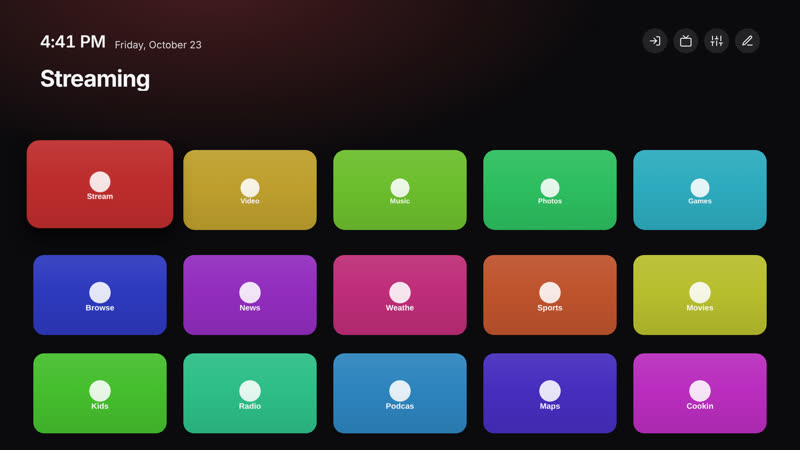
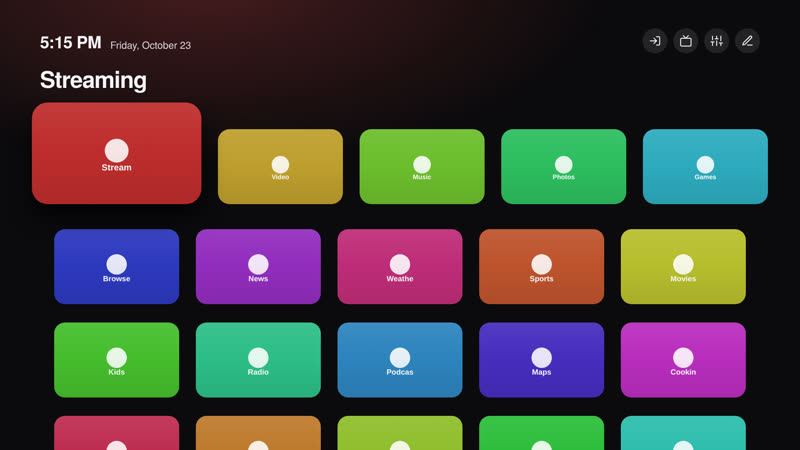
Theme picker in Customise, grow-to-fill top row, directional focus, Helvetica-style font
- Customise > Theme on the home screen lists the themes (as in the manager app) and applies one at once
- dock.fill: the focused dock tile grows from its bottom edge up to just under the app name; its neighbours move aside
- effects.direction: the new tile slides in from the side the focus came from, the old one leans after it
- type.font "helvetica": Sleek Sans, a renamed Latin subset of TeX Gyre Heros (GUST Font License), bundled with the launcher
- Sleek and Sleek Dark use all three; launcher 1.4.16, service 1.5.17

Claude-Session: https://claude.ai/code/session_019wHBhg4XGb2WRjxsczuXuk

diff --git a/app/index.html b/app/index.html
@@ -2,6 +2,8 @@
 <html><head><meta charset="utf-8"><title>Home</title>
 <meta name="viewport" content="width=1920">
 <style>
+@font-face{font-family:'Sleek Sans';src:url(sleek-sans-regular.woff2) format('woff2');font-weight:100 550}
+@font-face{font-family:'Sleek Sans';src:url(sleek-sans-bold.woff2) format('woff2');font-weight:551 900}
 /* Built for a weak TV GPU: only transform and opacity ever animate; no blur, masks or filters. Everything a theme changes (manager > Theme) is a
    variable here; the service works the values out (helper/theme.js) and the defaults below are the original look. */
 :root{
@@ -14,7 +16,7 @@
   --view-top:300px; --dock-l:96px; --dock-r:auto; --dock-t:60px; --dock-b:auto; --dock-tx:none; --dock-w:408px; --dock-h:230px; --dock-gap:32px; --dock-rad:36px;
   --dock-panel:0; --dock-pad:0px; --dock-lift:-10px; --dock-fs:1.05;
   --cols:10; --tile-w:151px; --tile-h:151px; --gap-x:24px; --gap-y:26px; --tile-r:34px; --grid-l:96px; --grid-w:1728px; --grid-t:350px; --grid-fs:1.12; --ov-dim:.95;
-  --gloss:0; --tile-border:0; --ring-w:4px; --ring-off:4px; --shadow:.6; --ink-rgb:245,246,248;
+  --gloss:0; --tile-border:0; --ring-w:4px; --ring-off:4px; --shadow:.6; --ink-rgb:245,246,248; --dock-origin:50% 50%; --dock-spread:0px;
 }
 *{box-sizing:border-box;margin:0}
 html,body{width:1920px;height:1080px;overflow:hidden;background:var(--night);color:var(--ink);font-family:var(--font)}
@@ -42,7 +44,7 @@ body{background-image:var(--wall);background-size:1920px 1080px}
 [data-labels=hide] .pill span{display:none}
 
 #shelf{position:absolute;left:0;right:0;top:var(--name-y);height:120px;padding:0 var(--name-x);text-align:var(--name-a);display:var(--name-d);z-index:5}
-#name{font-size:calc(92px*var(--fs)*var(--name-s));font-weight:700;letter-spacing:-.028em;line-height:1.05;white-space:nowrap;overflow:hidden;text-overflow:ellipsis}
+#name{font-size:calc(92px*var(--fs)*var(--name-s));font-weight:700;letter-spacing:-.028em;line-height:1.05;padding-bottom:.14em;white-space:nowrap;overflow:hidden;text-overflow:ellipsis}
 
 /* the view clips rows as they scroll up under the shelf */
 #view{position:absolute;left:0;top:var(--view-top);width:1920px;height:calc(1080px - var(--view-top));overflow:hidden;z-index:2}
@@ -64,7 +66,7 @@ body{background-image:var(--wall);background-size:1920px 1080px}
 .tile::after{content:'';position:absolute;left:0;top:0;right:0;bottom:0;border-radius:inherit;pointer-events:none;opacity:var(--gloss);
   background:linear-gradient(180deg,rgba(255,255,255,.2),rgba(255,255,255,0) 46%,rgba(0,0,0,.24))}
 
-.tile{--c:74,84,112;--b:20,22,27;position:relative;display:flex;align-items:center;justify-content:center;will-change:transform;
+.tile{--c:74,84,112;--b:20,22,27;position:relative;display:flex;align-items:center;justify-content:center;will-change:transform;transform:translate(calc(var(--sx,0px) + var(--mx,0px)),var(--my,0px));
   background:rgb(var(--b));box-shadow:inset 0 0 0 1px rgba(255,255,255,var(--tile-border));transition:transform calc(.12s*var(--spd)) cubic-bezier(.3,1.35,.5,1)}
 .snap .tile,.snap .pill{transition:none}   /* held arrow key: follow the focus without animating each step */
 .tile.fill{overflow:hidden}
@@ -78,11 +80,17 @@ body{background-image:var(--wall);background-size:1920px 1080px}
 #dock .tile{width:var(--dock-w);height:var(--dock-h);border-radius:var(--dock-rad)}
 #dock .tile img{height:56%;max-width:46%}
 #dock .tile svg{width:96px;height:96px}
-#dock .tile.f{transform:translateY(var(--dock-lift)) scale(var(--dock-fs))}
+#dock .tile.f{transform:translate(calc(var(--sx,0px) + var(--mx,0px)),var(--my,0px)) translateY(var(--dock-lift)) scale(var(--dock-fs));transform-origin:var(--dock-origin)}
+/* dock.fill: the tiles beside the grown one move aside */
+#dock .tile.sl{--sx:calc(var(--dock-spread) * -1)}
+#dock .tile.sr{--sx:var(--dock-spread)}
+/* effects.direction: a slower, settling move so the slide from the previous tile reads; .jump places a tile without animating */
+[data-dir] .tile{transition-duration:calc(.22s*var(--spd));transition-timing-function:cubic-bezier(.22,.9,.32,1.08)}
+.tile.jump{transition:none!important}
 #grid .tile{height:var(--tile-h);border-radius:var(--tile-r)}
 #grid .tile img{width:64%;height:64%}
 #grid .tile svg{width:64px;height:64px}
-#grid .tile.f{transform:scale(var(--grid-fs))}
+#grid .tile.f{transform:translate(var(--mx,0px),var(--my,0px)) scale(var(--grid-fs))}
 #grid .tile.sys{flex-direction:column;gap:8px}
 .slab{font-size:22px;font-weight:600;color:var(--ink2)}
 #grid .tile.sys{background:rgba(var(--ink-rgb),.05);box-shadow:inset 0 0 0 1px rgba(var(--ink-rgb),.12)}
@@ -191,7 +199,7 @@ svg.st{width:26px;height:26px;fill:#ffcc4d;flex:none}.crow.f svg.st{fill:#c98a00
 <div id="lv"><div id="lv-stage"></div><div id="lv-spin" class="layer"></div><div id="lv-osd" class="layer"><img class="logo" id="lv-ologo" alt=""><div class="num" id="lv-onum"></div><div class="info"><div class="name" id="lv-oname"></div><div class="now" id="lv-onow"></div><div class="next" id="lv-onext"></div><div class="facts" id="lv-ofacts"></div><div class="pbar"><i id="lv-obar"></i></div></div></div><div id="lv-numin" class="layer"></div><div id="lv-guide" class="layer"><div id="lv-glow"></div><div id="lv-gtop"><div id="lv-gtitle"></div><div id="lv-gtabs"></div><input id="lv-search" type="text" autocomplete="off"><div id="lv-gclock"></div></div><div id="lv-rows"></div><div id="lv-detail"></div></div><div id="lv-filter" class="layer"></div><div id="lv-menu" class="layer"></div><div id="lv-msg" class="layer"></div><div id="lv-tune" class="layer"></div><div id="lv-toast" class="layer"></div><div id="lv-stats" class="layer"></div></div>
 <div id="toast"></div>
 <script>
-var API='http://127.0.0.1:8765', CACHE_KEY='cytv.cache.v4', VERSION='1.4.15';
+var API='http://127.0.0.1:8765', CACHE_KEY='cytv.cache.v4', VERSION='1.4.16';
 var DEFAULTS={
   dock:['netflix','youtube.leanback.v4','amazon','com.disney.disneyplus-prod'],
   topbar:[{label:'Inputs',icon:'inputs',action:'inputs'},{label:'Live TV',icon:'tv',action:'live'},{label:'Settings',icon:'settings',app:'com.palm.app.settings'}]
@@ -345,21 +353,25 @@ function glowNow(e){
 function glowSoon(e){clearTimeout(gT);gT=setTimeout(function(){glowNow(e)},110)}
 
 /* ---------- theme: the service resolves the chosen theme (manager > Theme) into CSS variables and a few numbers ---------- */
-var TH0={cols:10,tileH:151,gapY:26,gt:350,viewH:780,dockN:4,overlay:false,push:null,overlayH:510,glow:''},TH=TH0,themeKeys=[],themeAttrs=['data-bar','data-labels','data-clock','data-grid','data-galign'];
+var TH0={cols:10,tileH:151,gapY:26,gt:350,viewH:780,dockN:4,overlay:false,push:null,overlayH:510,glow:''},TH=TH0,themeKeys=[],themeAttrs=['data-bar','data-labels','data-clock','data-grid','data-galign','data-dir'];
 function applyTheme(t){
   var st=document.documentElement.style,b=document.body,k;
   for(k=0;k<themeKeys.length;k++)st.removeProperty(themeKeys[k]);themeKeys=[];
   for(k=0;k<themeAttrs.length;k++)b.removeAttribute(themeAttrs[k]);b.classList.remove('grid-open');
+  if(t&&t.name)themeName=t.name;
   if(!t||!t.vars){TH=TH0;return}
   for(k in t.vars){st.setProperty(k,t.vars[k]);themeKeys.push(k)}
   var w=t.wallpaper;
   if(w){var d='rgba('+t.nightRgb+','+w.dim+')';st.setProperty('--wall','linear-gradient('+d+','+d+'),url("'+API+'/api/theme/wallpaper/'+w.id+'/'+w.file+'")');themeKeys.push('--wall')}
   for(k in t.attrs)b.setAttribute('data-'+k,t.attrs[k]);
-  TH={cols:t.cols||10,tileH:t.tileH||151,gapY:t.gapY||26,gt:t.gt||350,viewH:t.viewH||780,dockN:t.dockN||4,overlay:!!t.overlay,push:t.push||null,overlayH:t.overlayH||510,glow:t.glowRgb||''}}
+  if(t.dir)b.setAttribute('data-dir','1');
+  TH={cols:t.cols||10,tileH:t.tileH||151,gapY:t.gapY||26,gt:t.gt||350,viewH:t.viewH||780,dockN:t.dockN||4,overlay:!!t.overlay,push:t.push||null,overlayH:t.overlayH||510,glow:t.glowRgb||'',fill:!!t.fill,dir:t.dir||0}}
 
 function setFocus(nr,nc,first){
-  var old=rows[r]&&rows[r][c];if(old)old.classList.remove('f');
-  r=nr;c=Math.min(nc,rows[r].length-1);var e=rows[r][c];e.classList.add('f');
+  var old=rows[r]&&rows[r][c],or=r,oc=c;if(old)old.classList.remove('f');
+  r=nr;c=Math.min(nc,rows[r].length-1);var e=rows[r][c];
+  if(!first&&old&&old!==e&&TH.dir&&!document.body.classList.contains('snap'))motion(old,e,or===r?(c>oc?1:-1):0,or===r?0:(r>or?1:-1));else e.classList.add('f');
+  spread();
   var a=e._a,nm=a?a.title:(e._o?barLabel(e._o):''),n=$('name');
   if(n.textContent!==nm)n.textContent=nm;
   if(first)glowNow(e);else glowSoon(e);
@@ -375,6 +387,18 @@ function setFocus(nr,nc,first){
   $('grid').style.transform='';
   if(r>=2){var gr=rows.length-2,gt=TH.gt;sh=Math.min(0,Math.max(50-(gt+(r-2)*(TH.tileH+TH.gapY)),TH.viewH-54-(gt+gr*TH.tileH+(gr-1)*TH.gapY)))}   /* row height + gap from the theme: no layout reads */
   $('scroll').style.transform=sh?'translateY('+sh+'px)':''}
+/* dock.fill: the dock tiles left and right of the focused one move aside to make room */
+function spread(){var d=rows[1]||[];for(var i=0;i<d.length;i++){var x=d[i];if(!x.classList.contains('tile'))return;x.classList.toggle('sl',TH.fill&&r===1&&i<c);x.classList.toggle('sr',TH.fill&&r===1&&i>c)}}
+/* effects.direction: the new tile starts offset toward the tile the focus came from (placed without animating), then grows and slides into
+   place; the tile it left leans after it for a moment. Only transforms change. */
+function raf2(f){requestAnimationFrame(function(){requestAnimationFrame(f)})}
+function motion(old,e,dx,dy){
+  var d=TH.dir,isT=e.classList.contains('tile');
+  if(isT){e.classList.add('jump');e.style.setProperty('--mx',(-dx*d)+'px');e.style.setProperty('--my',(-dy*d)+'px');
+    raf2(function(){e.classList.remove('jump');e.style.removeProperty('--mx');e.style.removeProperty('--my');if(rows[r]&&rows[r][c]===e)e.classList.add('f')})}
+  else e.classList.add('f');
+  if(old.classList.contains('tile')){old.style.setProperty('--mx',(dx*d*.4)+'px');old.style.setProperty('--my',(dy*d*.4)+'px');
+    setTimeout(function(){old.style.removeProperty('--mx');old.style.removeProperty('--my')},110)}}
 function mapCol(from,to,col){return from>1?Math.round(col*(to-1)/(from-1)):0}
 function posOf(e){for(var i=0;i<rows.length;i++){var j=rows[i].indexOf(e);if(j>=0)return [i,j]}return null}
 
@@ -470,12 +494,28 @@ function barMenu(o){openMenu(barLabel(o),[{label:t('Remove this button'),fn:func
 
 function customizeMenu(){
   openMenu(t('Customise'),[
+    {label:t('Theme'),sub:themeName,stay:true,fn:themeMenu},
     {label:'Dock',sub:t('hold OK on an app'),stay:true,fn:function(){toast(t('Hold OK on any app to change the dock'))}},
     {label:t('Top buttons'),stay:true,fn:topButtonsMenu},
     {label:t('Hidden apps'),stay:true,fn:hiddenMenu},
     {label:t('App order'),sub:cfg.sort==='alpha'?t('A to Z'):t('Most used first'),fn:function(){cfg.sort=cfg.sort==='alpha'?'usage':'alpha';saveCfg()}},
     {label:t('Clock'),sub:cfg.clock==='24'?t('24-hour'):cfg.clock==='12'?t('12-hour'):t('Automatic'),fn:function(){cfg.clock=cfg.clock==='24'?'12':cfg.clock==='12'?'auto':'24';saveCfg();tick()}},
     {label:t('Reset customisation'),fn:function(){cfg={};saveCfg()}}])}
+/* themes, as in the manager app: the list comes from the service (GitHub plus what is on the TV); choosing one downloads it if needed */
+var themeName='';
+function themeMenu(){
+  toast(t('Loading themes...'));
+  api('/api/theme/list').then(function(x){
+    if(x.error){toast(x.error);return}
+    $('toast').classList.remove('on');
+    var cur=x.current&&x.current.id,items=(x.themes||[]).map(function(th){if(th.id===cur)themeName=th.name;
+      return {label:th.name,sub:th.id===cur?'\u2713':(th.installed?'':t('download')),fn:function(){setThemeHome(th)}}});
+    var m=stack[stack.length-1];if(!m||m.title!==t('Customise'))return;   /* the menu was closed while the list loaded */
+    openMenu(t('Theme'),items);var top=stack[stack.length-1];for(var i=0;i<items.length;i++)if(items[i].sub==='\u2713'){top.idx=i;drawMenu();break}
+  }).catch(function(){toast(t('The service did not answer'))})}
+function setThemeHome(th){
+  toast(th.installed?th.name:t('Downloading')+' '+th.name+'...');
+  api('/api/theme/set',{id:th.id}).then(function(x){if(x.error){toast(x.error);return}themeName=th.name;lastSig='';load()}).catch(function(){toast(t('The service did not answer'))})}
 function topButtonsMenu(){
   var items=shownBar().map(function(o){return {label:barLabel(o),sub:t('OK to remove'),fn:function(){removeButton(o)}}});
   items.push({label:t('Add a button...'),stay:true,fn:addButtonMenu});

diff --git a/helper/theme.js b/helper/theme.js
@@ -38,7 +38,7 @@ const SCHEMA = [
   ['surface.pillRadius', 'int', [0, 60], 32, 'Corner radius of the top buttons (pill style only).'],
   ['surface.menuAlpha', 'num', [0.5, 1], 0.97, 'Opacity of the dark layer behind menus.'],
   ['surface.rowRadius', 'int', [0, 50], 30, 'Corner radius of menu rows.'],
-  ['type.font', 'enum', ['default', 'serif', 'mono'], 'default', 'The typeface: the TV\'s own, a serif or a monospace.'],
+  ['type.font', 'enum', ['default', 'serif', 'mono', 'helvetica'], 'default', 'The typeface: the TV\'s own, a serif, a monospace or `helvetica` (Sleek Sans, a Helvetica-style font that comes with the launcher).'],
   ['type.scale', 'num', [0.8, 1.3], 1, 'Scale of the text of buttons, menus and tiles.'],
   ['clock.show', 'bool', null, true, 'Show the clock.'],
   ['clock.date', 'bool', null, true, 'Show the date beside or under the time.'],
@@ -76,6 +76,7 @@ const SCHEMA = [
   ['dock.panelPad', 'int', [0, 60], 24, 'Space between the panel and the tiles, in px.'],
   ['dock.lift', 'int', [0, 40], 10, 'How far the focused dock tile rises, in px.'],
   ['dock.focusScale', 'num', [1, 1.3], 1.05, 'Scale of the focused dock tile.'],
+  ['dock.fill', 'bool', null, false, 'The focused dock tile grows from its bottom edge up to just under the app name, and the tiles beside it move aside; `dock.focusScale` and `dock.lift` are then not used.'],
   ['grid.mode', 'enum', ['below', 'push', 'overlay'], 'below', '`below`: the grid sits under the dock and scrolls (a dock at the bottom behaves as `push`); `push`: the grid sits under the dock out of sight, and when the focus moves down into it the dock moves up to `grid.dockUp` and the grid appears below it; `overlay`: the grid opens over the screen above the dock.'],
   ['grid.dockUp', 'int', [0, 700], 220, '`push` mode: where the dock stops, counted from the top of the screen, while the grid has the focus, in px.'],
   ['grid.align', 'enum', ['left', 'center'], 'left', '`center` centres every row of tiles, also a last row that is not full.'],
@@ -99,6 +100,7 @@ const SCHEMA = [
   ['effects.glow', 'num', [0, 1], 1, 'Strength of the ambient glow at the top.'],
   ['effects.glowColor', 'enum', ['app', 'accent'], 'app', '`app`: taken from the focused icon; `accent`: the accent colour.'],
   ['effects.speed', 'num', [0, 2], 1, 'Animation speed multiplier; 0 switches the animations off.'],
+  ['effects.direction', 'int', [0, 60], 0, 'Directional focus: the newly focused tile slides in this far, in px, from the side the focus came from, and the tile it left leans after it; 0 for none.'],
   ['effects.wallpaper', 'file', null, '', 'A file name in `themes/wallpapers/`: `.jpg`, `.png` or `.webp`, at most 1.5 MB; drawn at 1920 x 1080.'],
   ['effects.wallpaperDim', 'num', [0, 0.9], 0.4, 'How far the wallpaper is darkened with the background colour.'],
 ];
@@ -213,12 +215,16 @@ function resolve(t, accent) {
   const panel = v['dock.panel'] > 0, pad = panel ? v['dock.panelPad'] : 0, dockH = v['dock.h'] + 2 * pad;
   const dockY = v['dock.y'] !== null ? v['dock.y'] : (dockBottom ? 68 : 360);
   const dockTop = dockBottom ? 1080 - dockY - dockH : dockY;   // where the dock's top is when the grid has no focus
-  const viewTop = overlay ? 0 : Math.min(v['grid.clipTop'], push ? Math.min(dockTop, v['grid.dockUp']) : dockY);
+  // dock.fill: the name's text box ends at shelf.y + its line height (92 px * scales * 1.05); the grown tile stops 28 px under it
+  const fillTo = v['shelf.show'] ? Math.round(v['shelf.y'] + 92 * v['type.scale'] * v['shelf.scale'] * 1.05) + 28 : Math.max(v['clock.y'] + 90, v['bar.y'] + v['bar.size'] + 24);
+  const fillS = v['dock.fill'] && !dockBottom && !overlay && dockTop > fillTo ? Math.min(1.8, Math.round((v['dock.h'] + dockTop - fillTo) / v['dock.h'] * 1000) / 1000) : 0;
+  const viewTop0 = overlay ? 0 : Math.min(v['grid.clipTop'], push ? Math.min(dockTop, v['grid.dockUp']) : dockY);
+  const viewTop = fillS ? Math.min(viewTop0, fillTo - 8) : viewTop0;
   const gridY = v['grid.y'] !== null ? v['grid.y'] : (overlay ? 290 : dockTop + dockH + 60);
   const dock = (dockBottom && overlay) ? place('bottom', v['dock.align'], v['dock.x'], dockY) : place('top', v['dock.align'], v['dock.x'], dockTop - viewTop);
   const clock = place(v['clock.anchor'], v['clock.align'], v['clock.x'], v['clock.y']), bar = place(v['bar.anchor'], v['bar.align'], v['bar.x'], v['bar.y']);
   const labels = v['bar.labels'] === 'auto' ? (v['bar.style'] === 'round' ? 'hide' : 'show') : v['bar.labels'];
-  const FONT = { default: '"LG Smart UI","Helvetica Neue",Helvetica,Arial,sans-serif', serif: 'Georgia,"Times New Roman",Times,serif', mono: 'Menlo,Consolas,"DejaVu Sans Mono",monospace' };
+  const FONT = { default: '"LG Smart UI","Helvetica Neue",Helvetica,Arial,sans-serif', serif: 'Georgia,"Times New Roman",Times,serif', mono: 'Menlo,Consolas,"DejaVu Sans Mono",monospace', helvetica: '"Sleek Sans","Helvetica Neue",Helvetica,Arial,sans-serif' };
   const vars = {
     '--night': v['colors.night'], '--night-rgb': night.join(','), '--panel': v['colors.panel'], '--panel2': mix(v['colors.panel'], v['colors.ink'], 0.06), '--ink': v['colors.ink'], '--ink2': 'rgba(' + ink.join(',') + ',.62)',
     '--acc': A, '--acc-ink': lum(A) > 0.35 ? '#0b0c10' : '#ffffff', '--focus': v['colors.focus'] || A, '--font': FONT[v['type.font']], '--fs': String(v['type.scale']),
@@ -228,7 +234,7 @@ function resolve(t, accent) {
     '--clock-d': v['clock.show'] ? 'flex' : 'none', '--date-d': v['clock.date'] ? 'block' : 'none', '--bar-l': bar.l, '--bar-r': bar.r, '--bar-t': bar.t, '--bar-b': bar.b, '--bar-tx': bar.tx, '--bar-d': v['bar.show'] ? 'flex' : 'none',
     '--name-d': v['shelf.show'] ? 'block' : 'none', '--name-x': px(v['shelf.x']), '--name-y': px(v['shelf.y']), '--name-a': v['shelf.align'], '--name-s': String(v['shelf.scale']),
     '--view-top': px(viewTop), '--dock-l': dock.l, '--dock-r': dock.r, '--dock-t': dock.t, '--dock-b': dock.b, '--dock-tx': dock.tx, '--dock-w': px(v['dock.w']), '--dock-h': px(v['dock.h']), '--dock-gap': px(v['dock.gap']), '--dock-rad': px(v['dock.radius']),
-    '--dock-panel': String(v['dock.panel']), '--dock-pad': px(pad), '--dock-lift': px(-v['dock.lift']), '--dock-fs': String(v['dock.focusScale']),
+    '--dock-panel': String(v['dock.panel']), '--dock-pad': px(pad), '--dock-lift': px(fillS ? 0 : -v['dock.lift']), '--dock-fs': String(fillS || v['dock.focusScale']), '--dock-origin': fillS ? '50% 100%' : '50% 50%', '--dock-spread': px(fillS ? Math.round(v['dock.w'] * (fillS - 1) / 2) : 0),
     '--cols': String(v['grid.cols']), '--tile-h': px(v['grid.tileH']), '--gap-x': px(v['grid.gapX']), '--gap-y': px(v['grid.gapY']), '--tile-r': px(v['grid.radius']), '--grid-l': px(v['grid.x']), '--grid-w': px(v['grid.width']),
     '--grid-t': px(gridY - viewTop), '--tile-w': px(Math.floor((v['grid.width'] - (v['grid.cols'] - 1) * v['grid.gapX']) / v['grid.cols'])), '--grid-fs': String(v['grid.focusScale']), '--ov-dim': String(v['grid.overlayDim']),
     '--gloss': String(v['tile.gloss']), '--tile-border': String(v['tile.border']), '--ring-w': px(v['tile.ringWidth']), '--ring-off': px(v['tile.ringOffset']), '--shadow': String(v['tile.shadow']), '--ink-rgb': ink.join(','),
@@ -238,7 +244,7 @@ function resolve(t, accent) {
   return {
     id: t.id, name: t.name, vars,
     attrs: { bar: v['bar.style'], labels, clock: v['clock.layout'], grid: mode, galign: v['grid.align'] },
-    cols: v['grid.cols'], tileH: v['grid.tileH'], gapY: v['grid.gapY'], gt: gridY - viewTop, viewH: 1080 - viewTop, dockN: v['dock.count'], overlay, push: push ? { up: Math.max(0, dockTop - v['grid.dockUp']), gridTop: gridY } : null, overlayH: v['grid.overlayH'],
+    cols: v['grid.cols'], tileH: v['grid.tileH'], gapY: v['grid.gapY'], gt: gridY - viewTop, viewH: 1080 - viewTop, dockN: v['dock.count'], overlay, push: push ? { up: Math.max(0, dockTop - v['grid.dockUp']), gridTop: gridY } : null, overlayH: v['grid.overlayH'], fill: !!fillS, dir: v['effects.direction'],
     glowRgb: v['effects.glowColor'] === 'accent' ? rgb(A).join(',') : '', nightRgb: night.join(','), wallpaper: w ? { id: t.id, file: w, dim: v['effects.wallpaperDim'] } : null,
   };
 }

diff --git a/tools/node8-check.js b/tools/node8-check.js
@@ -214,6 +214,8 @@ const fake = (url, method) => { const res = { code: 0, out: '', writeHead(c) { t
   ok(tkid.v['grid.cols'] === 7 && tkid.v['dock.count'] === 6 && tkid.v['bar.style'] === 'round', 'a theme that extends another keeps its values where its own are missing or invalid');
   const tlight = themeMod.normalize({ colors: { ink: '#1d1d1f' }, tile: { shadow: 0.2 } }, 'light'), tsh = themeMod.normalize({ tile: { shadow: 9 } }, 'sh');
   ok(tlight.v['tile.shadow'] === 0.2 && tsh.v['tile.shadow'] === 1 && themeMod.normalize({}, 'plain').v['tile.shadow'] === 0.6, 'the focus shadow is a theme setting, clamped to 0 to 1, default 0.6');
+  const tsleek = themeMod.normalize({ type: { font: 'helvetica' }, dock: { fill: true }, effects: { direction: 500 } }, 'sl'), tno = themeMod.normalize({ dock: { fill: 'yes' }, effects: { direction: -3 } }, 'no');
+  ok(tsleek.v['type.font'] === 'helvetica' && tsleek.v['dock.fill'] === true && tsleek.v['effects.direction'] === 60 && tno.v['dock.fill'] === false && tno.v['effects.direction'] === 0, 'the helvetica font, dock.fill and effects.direction are theme settings, checked and clamped');
   // a stand-in for raw.githubusercontent.com: the repository's folder, plus a few themes that are wrong on purpose
   const tWrong = { kid: JSON.stringify({ name: 'Kid', extends: 'bloom', bar: { style: 'flat' } }), notjson: '{ this is not json', huge: JSON.stringify({ name: 'x'.repeat(40000) }),
     badwall: JSON.stringify({ name: 'Bad wallpaper', effects: { wallpaper: 'w.jpg' } }), orphan: JSON.stringify({ name: 'Orphan', extends: 'missing-base' }) };

diff --git a/helper/helper.js b/helper/helper.js
@@ -1,7 +1,7 @@
 // Root service of CleanYourTV: bridges the launcher web app to luna, serves app icons, runs Live TV and picture
 // notifications, keeps the Input-key picker alive and hosts the manager API. Listens on 127.0.0.1 only.
 const http = require('http'), fs = require('fs'), path = require('path'), cp = require('child_process');
-const VERSION = '1.5.16';
+const VERSION = '1.5.17';
 const PORT = 8765, DIR = '/media/developer/cleanyourtv', CONF = DIR + '/config.json', USAGE = DIR + '/usage.json';
 const ENV = Object.assign({}, process.env, { PATH: '/usr/bin:/usr/sbin:/bin:/sbin:' + (process.env.PATH || '') });
 

diff --git a/docs/themes.md b/docs/themes.md
@@ -144,7 +144,7 @@ when the focus moves down into it (Back or Up closes it); a dock at the top leav
 | `surface.menuAlpha` | 0.5 to 1 | `0.97` | Opacity of the dark layer behind menus. |
 | `surface.rowRadius` | 0 to 50 | `30` | Corner radius of menu rows. |
 | **type** | | | |
-| `type.font` | `default`, `serif`, `mono` | `default` | The typeface: the TV's own, a serif or a monospace. |
+| `type.font` | `default`, `serif`, `mono`, `helvetica` | `default` | The typeface: the TV's own, a serif, a monospace or `helvetica` (Sleek Sans, a Helvetica-style font that comes with the launcher). |
 | `type.scale` | 0.8 to 1.3 | `1` | Scale of the text of buttons, menus and tiles. |
 | **clock** | | | |
 | `clock.show` | `true` or `false` | `true` | Show the clock. |
@@ -186,6 +186,7 @@ when the focus moves down into it (Back or Up closes it); a dock at the top leav
 | `dock.panelPad` | 0 to 60 | `24` | Space between the panel and the tiles, in px. |
 | `dock.lift` | 0 to 40 | `10` | How far the focused dock tile rises, in px. |
 | `dock.focusScale` | 1 to 1.3 | `1.05` | Scale of the focused dock tile. |
+| `dock.fill` | `true` or `false` | `false` | The focused dock tile grows from its bottom edge up to just under the app name, and the tiles beside it move aside; `dock.focusScale` and `dock.lift` are then not used. |
 | **grid** | | | |
 | `grid.mode` | `below`, `push`, `overlay` | `below` | `below`: the grid sits under the dock and scrolls (a dock at the bottom behaves as `push`); `push`: the grid sits under the dock out of sight, and when the focus moves down into it the dock moves up to `grid.dockUp` and the grid appears below it; `overlay`: the grid opens over the screen above the dock. |
 | `grid.dockUp` | 0 to 700 | `220` | `push` mode: where the dock stops, counted from the top of the screen, while the grid has the focus, in px. |
@@ -212,6 +213,7 @@ when the focus moves down into it (Back or Up closes it); a dock at the top leav
 | `effects.glow` | 0 to 1 | `1` | Strength of the ambient glow at the top. |
 | `effects.glowColor` | `app`, `accent` | `app` | `app`: taken from the focused icon; `accent`: the accent colour. |
 | `effects.speed` | 0 to 2 | `1` | Animation speed multiplier; 0 switches the animations off. |
+| `effects.direction` | 0 to 60 | `0` | Directional focus: the newly focused tile slides in this far, in px, from the side the focus came from, and the tile it left leans after it; 0 for none. |
 | `effects.wallpaper` | a file name | none | A file name in `themes/wallpapers/`: `.jpg`, `.png` or `.webp`, at most 1.5 MB; drawn at 1920 x 1080. |
 | `effects.wallpaperDim` | 0 to 0.9 | `0.4` | How far the wallpaper is darkened with the background colour. |
 <!-- schema:end -->

diff --git a/THIRD-PARTY.md b/THIRD-PARTY.md
@@ -43,6 +43,13 @@ Kazuhiko Arase, unmodified (npm package `qrcode-generator@1.4.4`, SHA-256 of the
[1 lines of base64/hex data omitted]
 the file header). The manager app loads it to draw the QR code.
 
+## Sleek Sans (the launcher's "helvetica" font)
+
+`app/sleek-sans-regular.woff2` and `app/sleek-sans-bold.woff2` are a modified version of TeX Gyre Heros 2.004 by Bogusław
+Jackowski and Janusz M. Nowacki, under the GUST Font License (LPPL 1.3c or later). They were reduced to Latin characters, converted
+to WOFF2 and renamed Sleek Sans, as that licence requests. The notice is in `app/sleek-sans-LICENSE.txt`; the originals are at
+[GUST e-foundry](http://www.gust.org.pl/projects/e-foundry/tex-gyre/) and [CTAN](https://ctan.org/pkg/tex-gyre-heros).
+
 ## Design
 
 The home-screen design follows the Android TV project [CleanYourTV](https://github.com/Gathin23/cleanyourtv) (MIT).

diff --git a/docs/launcher.md b/docs/launcher.md
@@ -33,6 +33,7 @@ The Magic Remote pointer works too: pointing and clicking, and holding the butto
 
 **Customise** holds:
 
+- the **theme** (the same list as in the manager app; a theme that is not on the TV yet is downloaded when you choose it),
 - the **top buttons** (add Inputs, Settings, Live TV or any app, or remove one),
 - **hidden apps** (show them again),
 - the **app order** (most used first, or A to Z),
@@ -64,7 +65,7 @@ Menus follow the TV's language: English, Dutch, German, French and Spanish.
 ## Themes
 
 The look of the home screen (colours, tile and text size, columns, clock, glow, animation speed, wallpaper) is a [theme](themes.md),
-chosen in the manager app.
+chosen in the manager app or in **Customise** > **Theme** on the home screen.
 
 ## Settings file
 
